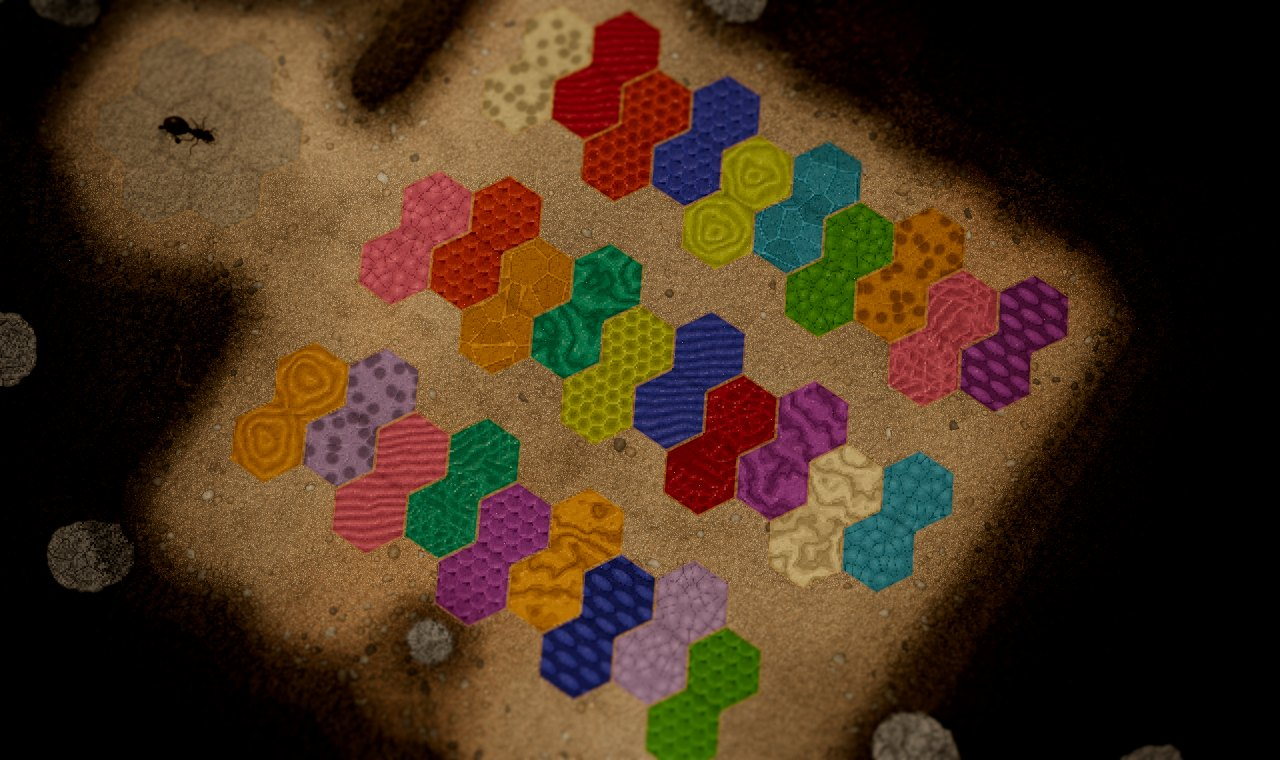
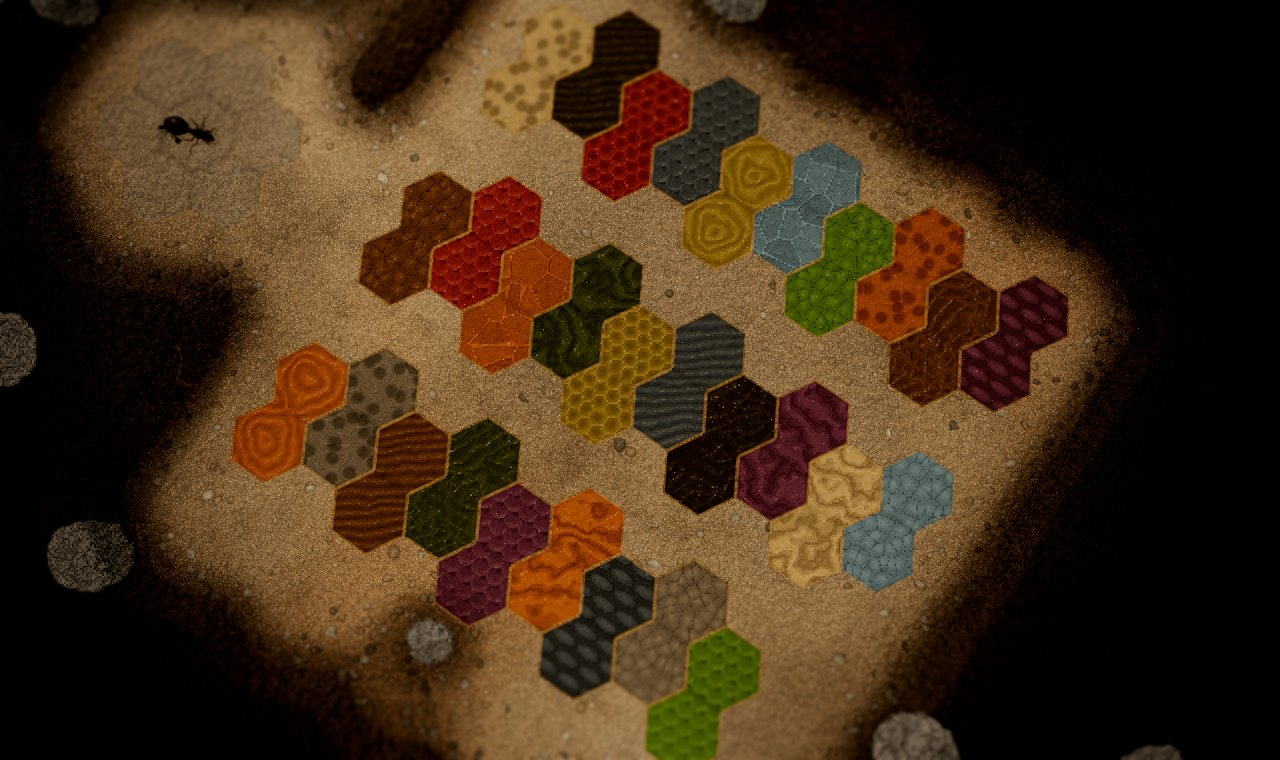
Caste looks in earth tones: black, grey, slate, brown, sand, dead grass, grass, moss, sky, earth red, burnt orange, heather purple
User note 2026-11-02 12:04. Textures unchanged; each caste maps one to one from its old colour, so species stay
distinct and no pair repeats. Pale ants on the darkest badges; dark colours lifted on panels and the minimap.

Claude-Session: https://claude.ai/code/session_01MHhvayxRSszQFax75UpbXx

Changed region(s): [[0.1562, 0.2118, 0.8438, 0.9382], [0.375, 0.0, 0.6875, 0.3632]]

diff --git a/src/render/casteLook.ts b/src/render/casteLook.ts
@@ -6,29 +6,30 @@ import { CASTES } from '../sim/species';
  * termites and future ones) have different colors and textures so they can be identifiable and different (also their
  * UI color and look for pheromone markers and building so they can be distinct from each other)").
  *
- * A look is a colour from a fixed palette of clearly different hues plus a texture pressed into the tile's soil. The
+ * A look is a colour from a fixed palette of clearly different earth tones plus a texture worked into the tile. The
  * castes of one species never share a colour or a texture, and no two castes anywhere share both, so a Gene Thief or
  * Termant nest full of stolen castes still tells them apart. Castes without an entry (new species, new castes) are
  * given a free pair the same way, in the order they are defined, so they stay distinct too. Render and UI only.
  */
 
 /**
- * Tile and UI colours (sRGB): clean, clear hues far apart (user note 2026-11-02 11:04: "they can use different colors
- * just use more cleaner ones"); values between lavender and crimson so they read on dark soil.
+ * Tile and UI colours (sRGB): earth tones (user note 2026-11-02 12:04: "change their colors to be more earth tone? like
+ * around grey, black, brown, sandy, grass green, dead grass, sky blue, and all of the above (earth tone red and purple
+ * and orange is fine too)"), spaced so every pair stays clearly apart (ΔE ≥ 24). Replaced the bright palette of 11:04.
  */
 export const CASTE_PALETTE = {
-  amber: 0xd9a030,
-  rust: 0xc4552c,
-  crimson: 0xb02a40,
-  rose: 0xdc7aa0,
-  violet: 0xa660c8,
-  indigo: 0x4460d4,
-  sky: 0x4cb0e0,
-  teal: 0x26a898,
-  green: 0x5aa83c,
-  lime: 0xbccc3a,
-  bone: 0xe6dcba,
-  lavender: 0xb8a8e8,
+  black: 0x34302c,
+  grey: 0x908c86,
+  slate: 0x52667c,
+  brown: 0x7a5232,
+  sand: 0xdcc495,
+  straw: 0xb09c48,
+  grass: 0x6c9a3c,
+  moss: 0x485a2c,
+  sky: 0x84b0d4,
+  red: 0xa8432e,
+  orange: 0xcc7a30,
+  purple: 0x7a4a72,
 } as const;
 export type CasteColour = keyof typeof CASTE_PALETTE;
 
@@ -42,39 +43,39 @@ export const CASTE_PATTERNS = ['pockets', 'striate', 'pellets', 'rugose', 'scale
 export type CastePattern = (typeof CASTE_PATTERNS)[number];
 
 const T: Record<string, [CasteColour, CastePattern]> = {
-  lasius_worker: ['bone', 'pockets'],
-  lasius_soldier: ['crimson', 'striate'],
-  formica_worker: ['rust', 'comb'],
-  formica_soldier: ['indigo', 'scales'],
-  formica_mortar: ['lime', 'rugose'],
+  lasius_worker: ['sand', 'pockets'],
+  lasius_soldier: ['black', 'striate'],
+  formica_worker: ['red', 'comb'],
+  formica_soldier: ['slate', 'scales'],
+  formica_mortar: ['straw', 'rugose'],
   formica_rapid: ['sky', 'veins'],
-  atta_minim: ['green', 'pellets'],
-  atta_media: ['amber', 'pockets'],
-  atta_soldier: ['rose', 'silk'],
-  atta_major: ['violet', 'cocoons'],
-  fire_minor: ['rose', 'pellets'],
-  fire_soldier: ['rust', 'scales'],
-  fire_major: ['amber', 'veins'],
-  eciton_minor: ['teal', 'carton'],
-  eciton_submajor: ['lime', 'comb'],
-  eciton_media: ['indigo', 'striate'],
-  eciton_major: ['crimson', 'silk'],
-  plagiaria_worker: ['violet', 'carton'],
-  nasute_worker: ['bone', 'carton'],
+  atta_minim: ['grass', 'pellets'],
+  atta_media: ['orange', 'pockets'],
+  atta_soldier: ['brown', 'silk'],
+  atta_major: ['purple', 'cocoons'],
+  fire_minor: ['brown', 'pellets'],
+  fire_soldier: ['red', 'scales'],
+  fire_major: ['orange', 'veins'],
+  eciton_minor: ['moss', 'carton'],
+  eciton_submajor: ['straw', 'comb'],
+  eciton_media: ['slate', 'striate'],
+  eciton_major: ['black', 'silk'],
+  plagiaria_worker: ['purple', 'carton'],
+  nasute_worker: ['sand', 'carton'],
   nasute_soldier: ['sky', 'pellets'],
-  nasute_major: ['amber', 'rugose'],
-  rhy_worker: ['lavender', 'pockets'],
-  rhy_soldier: ['rose', 'striate'],
-  hell_worker: ['teal', 'silk'],
-  hell_soldier: ['violet', 'scales'],
-  aurimyrmex_worker: ['amber', 'carton'],
-  aurimyrmex_soldier: ['indigo', 'cocoons'],
-  termant_worker: ['lavender', 'pellets'],
-  termant_soldier: ['green', 'scales'],
+  nasute_major: ['orange', 'rugose'],
+  rhy_worker: ['grey', 'pockets'],
+  rhy_soldier: ['brown', 'striate'],
+  hell_worker: ['moss', 'silk'],
+  hell_soldier: ['purple', 'scales'],
+  aurimyrmex_worker: ['orange', 'carton'],
+  aurimyrmex_soldier: ['slate', 'cocoons'],
+  termant_worker: ['grey', 'pellets'],
+  termant_soldier: ['grass', 'scales'],
 };
 
 /** Queens and kings have no brood tiles; their UI look is the royal chamber's pale silt. */
-const ROYAL: [CasteColour, CastePattern] = ['lavender', 'rugose'];
+const ROYAL: [CasteColour, CastePattern] = ['grey', 'rugose'];
 
 export interface CasteLook {
   colour: CasteColour;
@@ -401,16 +402,28 @@ export function casteSwatchUrl(caste: string): string {
 
 /**
  * The caste's badge for buttons and cards: its tile swatch (colour and texture) with the ant (or termite) on top.
- * `silhouette` is the figure's SVG markup (ui/icons antSilhouette), drawn in `BADGE_FIGURE`.
+ * `silhouette` is the figure's SVG markup (ui/icons antSilhouette), drawn in `badgeFigure(caste)`.
  */
 export function casteBadge(caste: string, silhouette: string, cls = ''): string {
   return `<span class="cbadge${cls ? ' ' + cls : ''}" style="background-image:${casteSwatchUrl(caste)}">${silhouette}</span>`;
 }
 
-/** The colour of the caste's figure where it stands alone (top bar, arena roster): its colour, lifted a little. */
-export function casteFigureColour(caste: string): string {
-  return shade(casteLook(caste).css, 1.18);
+/** Relative luminance (0–1) of an sRGB colour. */
+function luma(hex: string): number {
+  const n = parseInt(hex.slice(1), 16);
+  return (0.2126 * ((n >> 16) & 255) + 0.7152 * ((n >> 8) & 255) + 0.0722 * (n & 255)) / 255;
 }
 
-/** The ant on its badge: dark, like a real ant on its coloured tile. */
-export const BADGE_FIGURE = '#1c130b';
+/**
+ * The caste's colour where it stands alone on a dark panel (top bar and arena figures, minimap tiles): its colour,
+ * lifted a little — dark earth tones (black, moss, slate, purple, brown) lifted more so they still show.
+ */
+export function casteFigureColour(caste: string): string {
+  const css = casteLook(caste).css;
+  return shade(css, luma(css) < 0.3 ? 1.45 : 1.18);
+}
+
+/** The ant on its badge: dark, like a real ant on its tile; pale on the darkest tiles so it still shows. */
+export function badgeFigure(caste: string): string {
+  return luma(casteLook(caste).css) < 0.3 ? '#efe4cc' : '#1c130b';
+}

diff --git a/tests/casteLooks.ts b/tests/casteLooks.ts
@@ -50,6 +50,13 @@ for (let i = 0; i < pal.length; i++)
   }
 check('palette colours all clearly different (ΔE ≥ 20)', minPal >= 20, `closest ${minPair} ΔE ${minPal.toFixed(1)}`);
 
+// earth tones (user note 12:04): muted colours — Lab chroma at most 60 each and 40 on average (the bright palette
+// it replaced averaged 57)
+const chroma = pal.map(([k, v]) => { const [, a, b] = lab(v); return [k, Math.hypot(a, b)] as [string, number]; });
+const meanC = chroma.reduce((t, [, c]) => t + c, 0) / chroma.length;
+check('palette is earth tones (muted: chroma ≤ 60 each, mean ≤ 40)', chroma.every(([, c]) => c <= 60) && meanC <= 40, `mean ${meanC.toFixed(0)}; ${chroma.map(([k, c]) => `${k} ${c.toFixed(0)}`).join(', ')}`);
+check('palette has the asked-for tones', ['grey', 'black', 'brown', 'sand', 'grass', 'straw', 'sky', 'red', 'purple', 'orange'].every((k) => k in CASTE_PALETTE));
+
 // within each species: no shared colour, no shared texture
 for (const sp of Object.keys(SPECIES)) {
   const cs = brood.filter((c) => CASTES[c].species === sp);
@@ -85,7 +92,7 @@ const fl = fake.map((c) => casteLook(c));
 check('future castes get looks of their own', new Set(fl.map((l) => l.colour)).size === 3 && new Set(fl.map((l) => l.pattern)).size === 3, fl.map((l) => `${l.colour}/${l.pattern}`).join(', '));
 const all = Object.keys(CASTES).filter(hasBroodLook);
 check('…without repeating any existing pair', new Set(all.map((c) => `${casteLook(c).colour}|${casteLook(c).pattern}`)).size === all.length);
-check('…and the existing castes keep their looks', casteLook('lasius_worker').colour === 'bone' && casteLook('atta_minim').pattern === 'pellets');
+check('…and the existing castes keep their looks', casteLook('lasius_worker').colour === 'sand' && casteLook('atta_minim').pattern === 'pellets');
 for (const id of fake) delete (CASTES as Record<string, unknown>)[id];
 resetCasteLooks();
 

diff --git a/src/ui/icons.ts b/src/ui/icons.ts
@@ -3,7 +3,7 @@
  * silhouettes for caste cards. All drawn for this game.
  */
 import { CASTES } from '../sim/species';
-import { BADGE_FIGURE, casteBadge } from '../render/casteLook';
+import { badgeFigure, casteBadge } from '../render/casteLook';
 
 const svg = (body: string, vb = '0 0 24 24') => `<svg viewBox="${vb}" class="ic" aria-hidden="true" fill="none" stroke="currentColor" stroke-width="1.7" stroke-linecap="round" stroke-linejoin="round">${body}</svg>`;
 
@@ -129,5 +129,5 @@ export function antSilhouette(role: string, color: string, head = 1): string {
 
 /** A caste's badge: its brood tile's colour and texture with the ant (or termite) on top (render/casteLook). */
 export function casteIcon(caste: string, cls = ''): string {
-  return casteBadge(caste, antSilhouette(CASTES[caste]?.role ?? 'worker', BADGE_FIGURE), cls);
+  return casteBadge(caste, antSilhouette(CASTES[caste]?.role ?? 'worker', badgeFigure(caste)), cls);
 }

diff --git a/src/ui/minimaps.ts b/src/ui/minimaps.ts
@@ -8,7 +8,7 @@ import { el, esc, shield } from './dom';
 import { AreaTabs } from './areaTabs';
 import { TOUCH } from '../core/device';
 import { ICONS } from './icons';
-import { casteLook } from '../render/casteLook';
+import { casteFigureColour } from '../render/casteLook';
 
 const TILE_RGB: Record<string, string> = { queen: '#9fb2c8', food: '#7a9a3a', fungus: '#e2dccc', aphid: '#a89870', thatch: '#9a7040', mound: '#c09058', carton: '#b08a58' };
 
@@ -168,7 +168,7 @@ export class Minimaps {
     for (const t of c?.tiles ?? []) {
       g.hexCenter(t.q, p);
       const gr = groupById(c!, t.group);
-      ctx.fillStyle = t.type === 'brood' && t.caste ? casteLook(t.caste).css : (TILE_RGB[t.type] ?? '#888');
+      ctx.fillStyle = t.type === 'brood' && t.caste ? casteFigureColour(t.caste) : (TILE_RGB[t.type] ?? '#888');
       hex(p.x * k, p.y * k, g.R * k * 0.92);
       ctx.fill();
       if (gr && gr.marker >= 0 && c!.player) {
